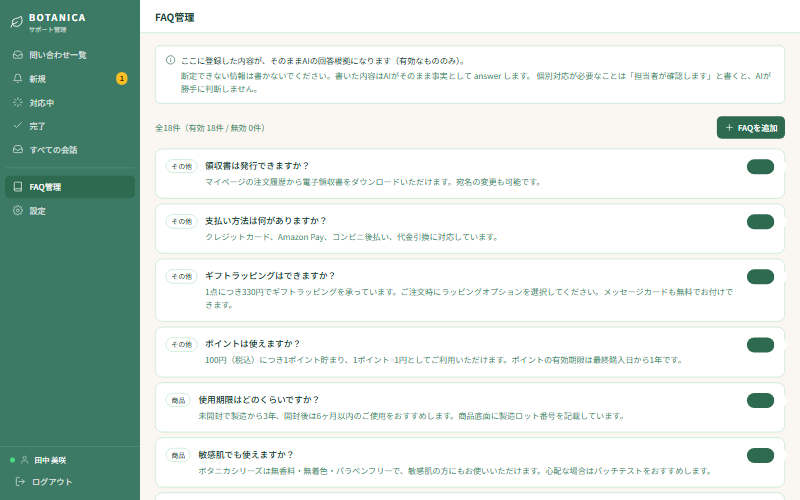
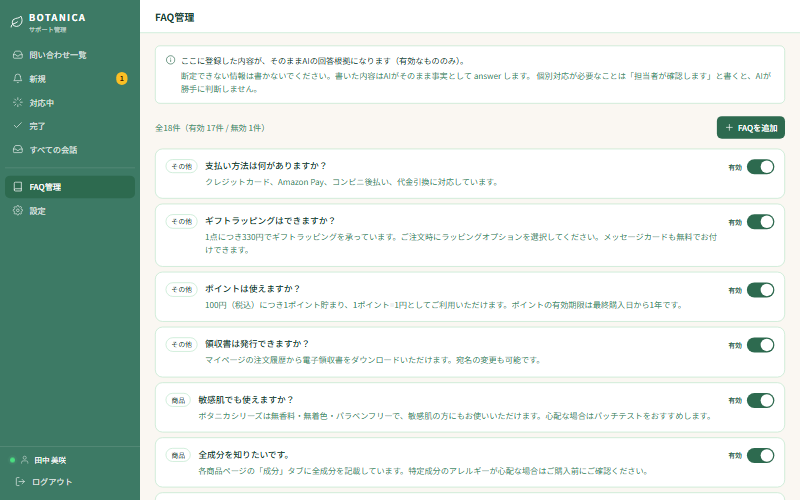
fix(ui): FAQの有効/無効トグルで状態が読み取れない問題を直す
有効(ON)のトグルが緑一色の塊に見え、無効(OFF)との区別がつかなかった。

原因はつまみの位置指定。absolute なのに left を省いていたため、
基準がボタンの静的位置になり、button が持つ text-align: center の影響で
つまみが中央に寄っていた。その状態で translate-x-[22px] すると
ON ではトラックの外へ出て切れ、白いつまみが見えなくなっていた。
OFF でもつまみが中央付近に表示され、左右どちらの状態か分からなかった。

実測値（トラック44px・つまみ20px）
  修正前 ON  : つまみがトラック外へはみ出して不可視
  修正前 OFF : 左の余白14px・右の余白10px（中央寄り）
  修正後 ON  : 左22px・右2px
  修正後 OFF : 左2px・右22px

- left-0.5 を明示し、基準位置を静的位置に依存させない
- translate を 0 と 5 にして左右対称に収める
- 「有効」「無効」の文字ラベルを併記する
  色と位置だけで状態を示すと色覚特性のある方に伝わらないため。
  一覧を上から見たときにどれが無効か一目で分かる効果もある
- つまみに影を付けてトラックとの境界を出す
- キーボード操作用のフォーカスリングを追加

同じ実装が他に無いことは role="switch" の全文検索で確認済み。
納品用スクリーンショットとFAQ編集者向けマニュアルも更新した。

diff --git a/components/operator/FaqClient.tsx b/components/operator/FaqClient.tsx
@@ -239,23 +239,40 @@ export function FaqClient() {
                 </p>
               </div>
 
-              {/* 有効/無効トグル */}
-              <button
-                type="button"
-                onClick={() => void handleToggle(faq)}
-                role="switch"
-                aria-checked={faq.is_active}
-                aria-label={`${faq.question} を${faq.is_active ? '無効' : '有効'}にする`}
-                className={`relative h-6 w-11 shrink-0 rounded-full transition-colors ${
-                  faq.is_active ? 'bg-brand-primary' : 'bg-slate-300'
-                }`}
-              >
+              {/* 有効/無効トグル
+                  文字ラベルを併記するのは、色と位置だけで状態を示すと
+                  色覚特性のある方に伝わらないため。一覧を上から見たときに
+                  どれが無効か一目で分かる効果もある。 */}
+              <div className="flex shrink-0 items-center gap-2">
                 <span
-                  className={`absolute top-0.5 h-5 w-5 rounded-full bg-white transition-transform ${
-                    faq.is_active ? 'translate-x-[22px]' : 'translate-x-0.5'
+                  className={`w-7 text-right text-[11px] font-bold ${
+                    faq.is_active ? 'text-brand-primary' : 'text-slate-400'
                   }`}
-                />
-              </button>
+                >
+                  {faq.is_active ? '有効' : '無効'}
+                </span>
+                <button
+                  type="button"
+                  onClick={() => void handleToggle(faq)}
+                  role="switch"
+                  aria-checked={faq.is_active}
+                  aria-label={`${faq.question} を${faq.is_active ? '無効' : '有効'}にする`}
+                  className={`relative h-6 w-11 shrink-0 rounded-full transition-colors focus:outline-none focus-visible:ring-2 focus-visible:ring-brand-secondary focus-visible:ring-offset-2 ${
+                    faq.is_active ? 'bg-brand-primary' : 'bg-slate-300'
+                  }`}
+                >
+                  {/* left-0.5 を必ず付けること。
+                      absolute で left を省くと基準がボタンの静的位置になり、
+                      button が持つ text-align: center の影響でつまみが中央に寄る。
+                      その状態で translate すると ON のときトラックの外へ出て
+                      見えなくなり、緑一色の塊にしか見えなくなる。 */}
+                  <span
+                    className={`absolute left-0.5 top-0.5 h-5 w-5 rounded-full bg-white shadow-sm transition-transform ${
+                      faq.is_active ? 'translate-x-5' : 'translate-x-0'
+                    }`}
+                  />
+                </button>
+              </div>
             </div>
           </li>
         ))}

diff --git a/docs/manual-faq.md b/docs/manual-faq.md
@@ -56,9 +56,14 @@ FAQを増やせばAIが答えられる質問が増え、担当者の対応件数
 ## 3. FAQの有効・無効を切り替える
 
 各FAQの右端にあるスイッチで切り替えます。
+スイッチの左に **「有効」「無効」の文字** が出るので、色が見分けにくい方でも判断できます。
 
-- **緑（オン）＝ 有効** … AIが回答の根拠に使う
-- **グレー（オフ）＝ 無効** … AIは使わない。お客様にも表示されない
+| 表示 | 状態 | AIの扱い |
+|---|---|---|
+| **有効** ＋ 緑のスイッチ（つまみが右） | 有効 | 回答の根拠に使う |
+| **無効** ＋ 灰色のスイッチ（つまみが左） | 無効 | 使わない。お客様にも表示されない |
+
+無効にした行は全体が薄く表示されるので、一覧を上から見たときにも見分けられます。
 
 ### 無効にする場面
 
